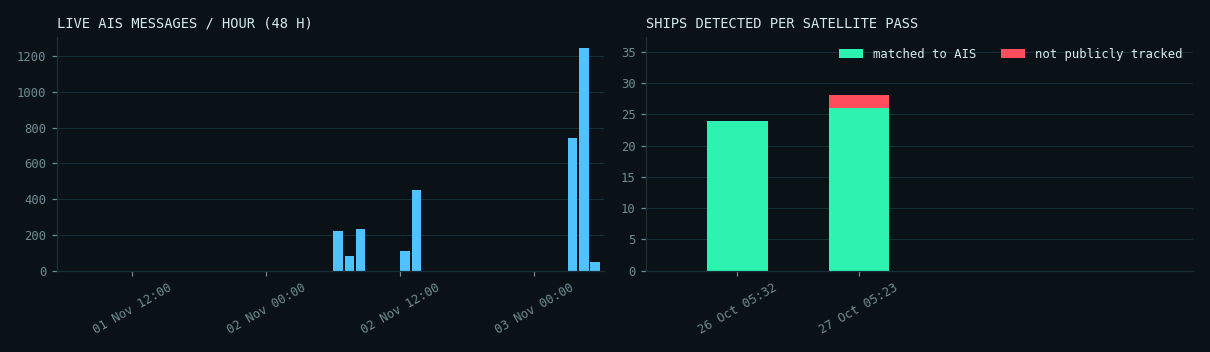
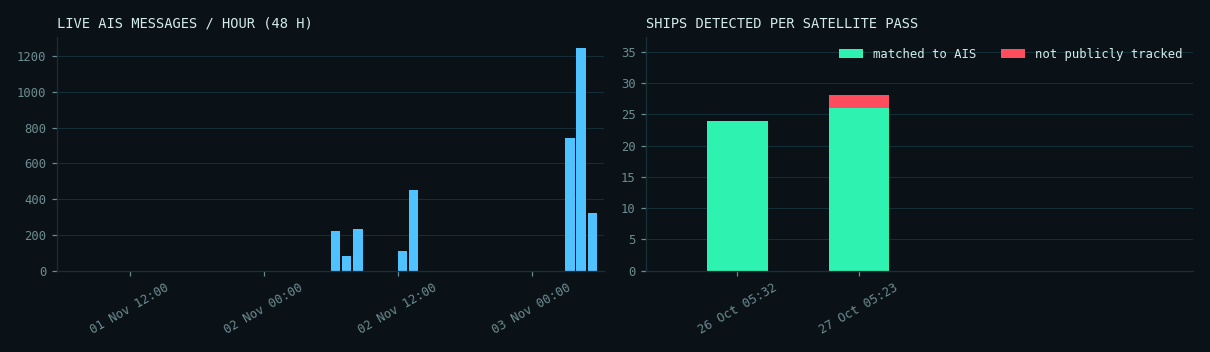
Automatic site update 2026-11-03 05:28 UTC

diff --git a/docs/denmark/index.html b/docs/denmark/index.html
@@ -81,15 +81,15 @@ footer{border-top:1px solid var(--line);padding:18px 0 28px;font:12px/1.6 var(--
 <header class="hud"><div class="wrap"><div class="hudrow">
  <a class="brand" href="../index.html"><div class="scope"><div class="sweep"></div><span class="blip" style="left:32px;top:14px"></span><span class="blip" style="left:15px;top:33px;animation-delay:1.1s"></span></div>
   <div><div class="kicker">SAR &times; AIS &middot; MARITIME AWARENESS</div><div class="title">DARK VESSEL <b>DETECTION</b></div></div></a>
- <div class="status"><span class="pill"><span class="dot off"></span>AIS FEED <strong>OFFLINE</strong></span>
+ <div class="status"><span class="pill"><span class="dot live"></span>AIS FEED <strong>LIVE</strong></span>
   <span class="pill">UTC <strong id="utc">--:--:--</strong></span>
-  <span class="pill">UPDATED <strong>03 Nov 05:14</strong></span></div>
+  <span class="pill">UPDATED <strong>03 Nov 05:29</strong></span></div>
 </div><nav class="tabs"><a class="" href="../index.html">OVERVIEW</a><a class="" href="../mumbai/index.html">MUMBAI</a><a class="on" href="../denmark/index.html">DENMARK</a><a class="" href="../nn/index.html">NEURAL NET</a><a class="" href="../demo/index.html">SIMULATION</a></nav></div></header>
 <main class="wrap"><div class="coords">SECTOR // DENMARK &middot; 55.55&ndash;55.85&deg;N &middot; 12.55&ndash;12.95&deg;E</div>
 <h1>Oresund, Copenhagen (Denmark/Sweden)</h1><p class="lede">Validation area. Sentinel-1 images it almost daily and coastal AIS coverage is dense, so the full match between radar and AIS can be shown and checked.</p>
 <div class="grid">
- <div class="panel"><div class="label">Live AIS feed</div><div class="value small"><span class='bad'>NO SIGNAL</span></div><div class="muted mono" style="font-size:12px;margin-top:6px">last message 12 min ago</div></div>
- <div class="panel"><div class="label">Ships broadcasting &middot; 30 min</div><div class="value cyan">50</div></div>
+ <div class="panel"><div class="label">Live AIS feed</div><div class="value small"><span class='ok'>RECEIVING</span></div><div class="muted mono" style="font-size:12px;margin-top:6px">last message 0 min ago</div></div>
+ <div class="panel"><div class="label">Ships broadcasting &middot; 30 min</div><div class="value cyan">57</div></div>
  <div class="panel"><div class="label">Matched &middot; latest pass</div><div class="value ">26</div></div>
  <div class="panel"><div class="label">Not tracked &middot; high confidence</div><div class="value red">0</div></div>
  <div class="panel"><div class="label">Not tracked &middot; low confidence</div><div class="value amber">2</div></div>
@@ -98,7 +98,7 @@ footer{border-top:1px solid var(--line);padding:18px 0 28px;font:12px/1.6 var(--
 <div class="legend"><span><i style="background:var(--green)"></i>matched to AIS</span><span><i style="background:var(--red)"></i>not tracked &middot; high confidence</span>
 <span><i style="background:var(--amber)"></i>not tracked &middot; low confidence</span><span><i style="background:var(--cyan)"></i>live AIS position</span></div>
 <div id="map" class="map"></div><script>
-const D=[{"lon": 12.574560869565218, "lat": 55.849597826086956, "length_m": 72.681575622935, "score": 0.6554655519501138, "shore_km": 0.14150886088341372, "status": "matched", "reason": "", "confidence": "high", "crop": "", "ship_prob": 0.9335045218467712}, {"lon": 12.704759174311928, "lat": 55.82280412844037, "length_m": 364.1071436957287, "score": 0.9904753373251979, "shore_km": 9.407061429825474, "status": "matched", "reason": "", "confidence": "high", "crop": "", "ship_prob": 0.9868959784507751}, {"lon": 12.786416463414636, "lat": 55.804669512195126, "length_m": 155.0522474362954, "score": 0.9999646038759398, "shore_km": 4.658419014138412, "status": "matched", "reason": "", "confidence": "high", "crop": "", "ship_prob": 0.9993557333946228}, {"lon": 12.88229375, "lat": 55.849146875, "length_m": 53.38783327710226, "score": 0.9899546194309776, "shore_km": 0.9067240720863213, "status": "candidate", "reason": "same_spot_in_another_pass", "confidence": "low", "crop": "crops/S1-Oresund-20261027_37.png", "ship_prob": 0.7905591130256653}, {"lon": 12.604004166666668, "lat": 55.75985, "length_m": 141.84238362073958, "score": 0.6867268898684522, "shore_km": 0.07168283192738693, "status": "matched", "reason": "", "confidence": "high", "crop": "", "ship_prob": 0.5051270127296448}, {"lon": 12.605736764705883, "lat": 55.75241323529412, "length_m": 122.11483240811877, "score": 0.9136889320646264, "shore_km": 0.6454382429486746, "status": "candidate", "reason": "same_spot_in_another_pass", "confidence": "low", "crop": "crops/S1-Oresund-20261027_77.png", "ship_prob": 0.7927113175392151}, {"lon": 12.703722571428573, "lat": 55.77917742857143, "length_m": 223.0817648726515, "score": 0.9996320924909895, "shore_km": 5.943270442766068, "status": "matched", "reason": "", "confidence": "high", "crop": "", "ship_prob": 0.9938097596168518}, {"lon": 12.902757692307693, "lat": 55.75654230769231, "length_m": 65.46226537445588, "score": 0.7187896049600956, "shore_km": 0.03584141596369347, "status": "matched", "reason": "", "confidence": "high", "crop": "", "ship_prob": 0.8691755533218384}, {"lon": 12.589922222222222, "lat": 55.725764814814816, "length_m": 146.45480845096748, "score": 0.9957587025210503, "shore_km": 0.034771280891766385, "status": "matched", "reason": "", "confidence": "high", "crop": "", "ship_prob": 0.9983701109886169}, {"lon": 12.598472047244096, "lat": 55.72077913385827, "length_m": 207.62671185403417, "score": 0.609772230082722, "shore_km": 0.14016751439395445, "status": "matched", "reason": "", "confidence": "high", "crop": "", "ship_prob": 0.6074324250221252}, {"lon": 12.589218, "lat": 55.712854, "length_m": 90.49550243938293, "score": 0.6486089656085543, "shore_km": 0.043464101114707984, "status": "matched", "reason": "", "confidence": "high", "crop": "", "ship_prob": 0.9998902082443237}, {"lon": 12.59024090909091, "lat": 55.71147090909091, "length_m": 162.54265478639104, "score": 1.0, "shore_km": 0.06146752127277559, "status": "matched", "reason": "", "confidence": "high", "crop": "", "ship_prob": 0.9999992847442627}, {"lon": 12.597835937500001, "lat": 55.701648437500005, "length_m": 133.31776511703256, "score": 0.9396217092764791, "shore_km": 0.06789309632894441, "status": "matched", "reason": "", "confidence": "high", "crop": "", "ship_prob": 0.9999727010726929}, {"lon": 12.60914, "lat": 55.69712, "length_m": 65.36743236464424, "score": 0.7827588237578229, "shore_km": 0.03134240904220623, "status": "matched", "reason": "", "confidence": "high", "crop": "", "ship_prob": 0.9867132902145386}, {"lon": 12.668552272727274, "lat": 55.72007840909091, "length_m": 207.26605497726354, "score": 0.6251792307103263, "shore_km": 0.03584141596369347, "status": "matched", "reason": "", "confidence": "high", "crop": "", "ship_prob": 0.9087074398994446}, {"lon": 12.5996, "lat": 55.68885, "length_m": 40.00855981470757, "score": 0.7664068666153926, "shore_km": 0.024587008509110237, "status": "matched", "reason": "", "confidence": "high", "crop": "", "ship_prob": 0.9766618013381958}, {"lon": 12.595819230769232, "lat": 55.67989871794872, "length_m": 127.62371588738732, "score": 0.9426870407335851, "shore_km": 0.05068741655051085, "status": "matched", "reason": "", "confidence": "high", "crop": "", "ship_prob": 0.9998841285705566}, {"lon": 12.594722222222224, "lat": 55.67918888888889, "length_m": 40.64467714079742, "score": 0.7639524834029205, "shore_km": 0.043464101114707984, "status": "matched", "reason": "", "confidence": "high", "crop": "", "ship_prob": 0.9999454021453857}, {"lon": 12.610660714285714, "lat": 55.69618571428572, "length_m": 94.51225356515693, "score": 0.9621795096736379, "shore_km": 0.03134240904220623, "status": "matched", "reason": "", "confidence": "high", "crop": "", "ship_prob": 0.999042809009552}, {"lon": 12.649045000000001, "lat": 55.692155, "length_m": 80.63364746000343, "score": 0.8515033668168979, "shore_km": 0.8863693295037299, "status": "matched", "reason": "", "confidence": "high", "crop": "", "ship_prob": 0.4333752989768982}, {"lon": 12.630751724137932, "lat": 55.685453448275865, "length_m": 125.00287123881988, "score": 0.93629426700422, "shore_km": 0.043464101114707984, "status": "matched", "reason": "", "confidence": "high", "crop": "", "ship_prob": 0.9975905418395996}, {"lon": 12.634987254901962, "lat": 55.677338235294116, "length_m": 276.5478352749318, "score": 0.7686103584091717, "shore_km": 0.024587008509110237, "status": "matched", "reason": "", "confidence": "high", "crop": "", "ship_prob": 0.9729636907577515}, {"lon": 12.68766150442478, "lat": 55.69581814159292, "length_m": 176.8074930452176, "score": 0.923202226335388, "shore_km": 2.6834920471942074, "status": "matched", "reason": "", "confidence": "high", "crop": "", "ship_prob": 0.8427141904830933}, {"lon": 12.65826847826087, "lat": 55.63610108695652, "length_m": 174.21377549767067, "score": 0.9833187000337672, "shore_km": 0.043464101114707984, "status": "matched", "reason": "", "confidence": "high", "crop": "", "ship_prob": 0.9998973608016968}, {"lon": 12.680683333333334, "lat": 55.610910000000004, "length_m": 74.22790892756812, "score": 0.6314184609397504, "shore_km": 0.03134240904220623, "status": "matched", "reason": "", "confidence": "high", "crop": "", "ship_prob": 0.44054293632507324}, {"lon": 12.868352132196163, "lat": 55.60022420042644, "length_m": 299.20726350177785, "score": 0.9999960398718075, "shore_km": 2.8169298200726325, "status": "matched", "reason": "", "confidence": "high", "crop": "", "ship_prob": 0.9967911839485168}, {"lon": 12.680875, "lat": 55.59323, "length_m": 95.51211981545671, "score": 0.7585723176580392, "shore_km": 0.03584141596369347, "status": "matched", "reason": "", "confidence": "high", "crop": "", "ship_prob": 0.797581672668457}, {"lon": 12.706387741935485, "lat": 55.56306903225806, "length_m": 301.4640427512081, "score": 0.9999731380181186, "shore_km": 3.1965238712919084, "status": "matched", "reason": "", "confidence": "high", "crop": "", "ship_prob": 0.9941650032997131}],LIVE=[{"lon": 12.997341666666667, "lat": 55.61367166666666, "sog": 0.0, "age": 29}, {"lon": 12.676121666666667, "lat": 55.59363666666666, "sog": 0.0, "age": 28}, {"lon": 12.592965, "lat": 55.67929, "sog": 0.0, "age": 27}, {"lon": 12.90351, "lat": 55.75664833333334, "sog": 0.1, "age": 26}, {"lon": 12.599056666666666, "lat": 55.689035, "sog": 0.0, "age": 23}, {"lon": 12.680413333333332, "lat": 55.611255, "sog": 0.0, "age": 23}, {"lon": 12.802448333333333, "lat": 55.867525, "sog": 10.2, "age": 22}, {"lon": 12.827605, "lat": 55.86272666666667, "sog": 0.0, "age": 21}, {"lon": 12.835305, "lat": 55.85993, "sog": 0.0, "age": 21}, {"lon": 12.676878333333333, "lat": 55.593984999999996, "sog": 0.0, "age": 21}, {"lon": 12.634868333333333, "lat": 55.687153333333335, "sog": 0.0, "age": 20}, {"lon": 12.8337, "lat": 55.85574999999999, "sog": 0.0, "age": 20}, {"lon": 13.05849, "lat": 55.67567833333333, "sog": 0.0, "age": 20}, {"lon": 12.744439999999999, "lat": 55.993293333333334, "sog": 0.0, "age": 19}, {"lon": 13.033395, "lat": 55.62437833333333, "sog": 0.0, "age": 19}, {"lon": 12.6307, "lat": 55.689859999999996, "sog": 0.0, "age": 19}, {"lon": 12.747538333333333, "lat": 55.52214166666667, "sog": 12.8, "age": 17}, {"lon": 12.488236666666667, "lat": 55.51761666666666, "sog": 0.0, "age": 17}, {"lon": 12.603558333333332, "lat": 55.76061, "sog": 0.0, "age": 16}, {"lon": 12.83193, "lat": 55.85404166666667, "sog": 0.0, "age": 16}, {"lon": 12.593518333333332, "lat": 55.679195, "sog": 0.0, "age": 16}, {"lon": 12.647473333333332, "lat": 55.6769, "sog": 0.0, "age": 16}, {"lon": 12.729016666666666, "lat": 55.97929833333333, "sog": 0.1, "age": 16}, {"lon": 12.872346666666665, "lat": 55.58277666666667, "sog": 17.0, "age": 16}, {"lon": 12.572725, "lat": 55.85084333333334, "sog": 0.0, "age": 16}, {"lon": 12.635391666666667, "lat": 55.67643833333333, "sog": 0.0, "age": 16}, {"lon": 12.824866666666667, "lat": 55.86593333333334, "sog": 0.0, "age": 16}, {"lon": 12.665891666666665, "lat": 55.71982, "sog": 0.1, "age": 15}, {"lon": 12.833266666666667, "lat": 55.855850000000004, "sog": 0.0, "age": 15}, {"lon": 12.646803333333335, "lat": 55.902251666666665, "sog": 11.0, "age": 15}, {"lon": 12.765588333333334, "lat": 55.883743333333335, "sog": 1.0, "age": 15}, {"lon": 12.672653333333333, "lat": 55.45431166666666, "sog": 12.4, "age": 14}, {"lon": 12.744446666666667, "lat": 55.993219999999994, "sog": 0.0, "age": 13}, {"lon": 12.729863333333332, "lat": 55.75190666666666, "sog": 0.1, "age": 13}, {"lon": 12.697265, "lat": 55.571434999999994, "sog": 20.9, "age": 13}, {"lon": 12.832903333333332, "lat": 55.85850666666667, "sog": 0.0, "age": 13}, {"lon": 12.701948333333332, "lat": 55.523215, "sog": 10.2, "age": 13}, {"lon": 12.482448333333334, "lat": 55.60140666666667, "sog": 0.0, "age": 13}, {"lon": 12.888868333333333, "lat": 55.61513166666667, "sog": 11.6, "age": 13}, {"lon": 12.646905, "lat": 55.67738166666666, "sog": 0.0, "age": 13}, {"lon": 12.680481666666667, "lat": 55.72191333333333, "sog": 8.9, "age": 12}, {"lon": 13.033791666666668, "lat": 55.624585, "sog": 0.0, "age": 12}, {"lon": 12.501653333333334, "lat": 55.61078333333333, "sog": 0.0, "age": 12}, {"lon": 12.728171666666666, "lat": 55.94376666666667, "sog": 9.0, "age": 12}, {"lon": 12.664021666666667, "lat": 55.72002333333333, "sog": 0.0, "age": 12}, {"lon": 12.679028333333333, "lat": 55.469375, "sog": 12.0, "age": 12}, {"lon": 12.715411666666666, "lat": 55.95131833333333, "sog": 9.0, "age": 12}, {"lon": 12.625316666666667, "lat": 55.691075, "sog": 0.0, "age": 12}, {"lon": 12.82288, "lat": 55.86647333333334, "sog": 0.0, "age": 12}, {"lon": 12.680051666666666, "lat": 55.59287, "sog": 0.0, "age": 11}],B=[[55.55,12.55],[55.85,12.95]];const m=L.map('map',{zoomSnap:.25}).fitBounds(B);
+const D=[{"lon": 12.574560869565218, "lat": 55.849597826086956, "length_m": 72.681575622935, "score": 0.6554655519501138, "shore_km": 0.14150886088341372, "status": "matched", "reason": "", "confidence": "high", "crop": "", "ship_prob": 0.9335045218467712}, {"lon": 12.704759174311928, "lat": 55.82280412844037, "length_m": 364.1071436957287, "score": 0.9904753373251979, "shore_km": 9.407061429825474, "status": "matched", "reason": "", "confidence": "high", "crop": "", "ship_prob": 0.9868959784507751}, {"lon": 12.786416463414636, "lat": 55.804669512195126, "length_m": 155.0522474362954, "score": 0.9999646038759398, "shore_km": 4.658419014138412, "status": "matched", "reason": "", "confidence": "high", "crop": "", "ship_prob": 0.9993557333946228}, {"lon": 12.88229375, "lat": 55.849146875, "length_m": 53.38783327710226, "score": 0.9899546194309776, "shore_km": 0.9067240720863213, "status": "candidate", "reason": "same_spot_in_another_pass", "confidence": "low", "crop": "crops/S1-Oresund-20261027_37.png", "ship_prob": 0.7905591130256653}, {"lon": 12.604004166666668, "lat": 55.75985, "length_m": 141.84238362073958, "score": 0.6867268898684522, "shore_km": 0.07168283192738693, "status": "matched", "reason": "", "confidence": "high", "crop": "", "ship_prob": 0.5051270127296448}, {"lon": 12.605736764705883, "lat": 55.75241323529412, "length_m": 122.11483240811877, "score": 0.9136889320646264, "shore_km": 0.6454382429486746, "status": "candidate", "reason": "same_spot_in_another_pass", "confidence": "low", "crop": "crops/S1-Oresund-20261027_77.png", "ship_prob": 0.7927113175392151}, {"lon": 12.703722571428573, "lat": 55.77917742857143, "length_m": 223.0817648726515, "score": 0.9996320924909895, "shore_km": 5.943270442766068, "status": "matched", "reason": "", "confidence": "high", "crop": "", "ship_prob": 0.9938097596168518}, {"lon": 12.902757692307693, "lat": 55.75654230769231, "length_m": 65.46226537445588, "score": 0.7187896049600956, "shore_km": 0.03584141596369347, "status": "matched", "reason": "", "confidence": "high", "crop": "", "ship_prob": 0.8691755533218384}, {"lon": 12.589922222222222, "lat": 55.725764814814816, "length_m": 146.45480845096748, "score": 0.9957587025210503, "shore_km": 0.034771280891766385, "status": "matched", "reason": "", "confidence": "high", "crop": "", "ship_prob": 0.9983701109886169}, {"lon": 12.598472047244096, "lat": 55.72077913385827, "length_m": 207.62671185403417, "score": 0.609772230082722, "shore_km": 0.14016751439395445, "status": "matched", "reason": "", "confidence": "high", "crop": "", "ship_prob": 0.6074324250221252}, {"lon": 12.589218, "lat": 55.712854, "length_m": 90.49550243938293, "score": 0.6486089656085543, "shore_km": 0.043464101114707984, "status": "matched", "reason": "", "confidence": "high", "crop": "", "ship_prob": 0.9998902082443237}, {"lon": 12.59024090909091, "lat": 55.71147090909091, "length_m": 162.54265478639104, "score": 1.0, "shore_km": 0.06146752127277559, "status": "matched", "reason": "", "confidence": "high", "crop": "", "ship_prob": 0.9999992847442627}, {"lon": 12.597835937500001, "lat": 55.701648437500005, "length_m": 133.31776511703256, "score": 0.9396217092764791, "shore_km": 0.06789309632894441, "status": "matched", "reason": "", "confidence": "high", "crop": "", "ship_prob": 0.9999727010726929}, {"lon": 12.60914, "lat": 55.69712, "length_m": 65.36743236464424, "score": 0.7827588237578229, "shore_km": 0.03134240904220623, "status": "matched", "reason": "", "confidence": "high", "crop": "", "ship_prob": 0.9867132902145386}, {"lon": 12.668552272727274, "lat": 55.72007840909091, "length_m": 207.26605497726354, "score": 0.6251792307103263, "shore_km": 0.03584141596369347, "status": "matched", "reason": "", "confidence": "high", "crop": "", "ship_prob": 0.9087074398994446}, {"lon": 12.5996, "lat": 55.68885, "length_m": 40.00855981470757, "score": 0.7664068666153926, "shore_km": 0.024587008509110237, "status": "matched", "reason": "", "confidence": "high", "crop": "", "ship_prob": 0.9766618013381958}, {"lon": 12.595819230769232, "lat": 55.67989871794872, "length_m": 127.62371588738732, "score": 0.9426870407335851, "shore_km": 0.05068741655051085, "status": "matched", "reason": "", "confidence": "high", "crop": "", "ship_prob": 0.9998841285705566}, {"lon": 12.594722222222224, "lat": 55.67918888888889, "length_m": 40.64467714079742, "score": 0.7639524834029205, "shore_km": 0.043464101114707984, "status": "matched", "reason": "", "confidence": "high", "crop": "", "ship_prob": 0.9999454021453857}, {"lon": 12.610660714285714, "lat": 55.69618571428572, "length_m": 94.51225356515693, "score": 0.9621795096736379, "shore_km": 0.03134240904220623, "status": "matched", "reason": "", "confidence": "high", "crop": "", "ship_prob": 0.999042809009552}, {"lon": 12.649045000000001, "lat": 55.692155, "length_m": 80.63364746000343, "score": 0.8515033668168979, "shore_km": 0.8863693295037299, "status": "matched", "reason": "", "confidence": "high", "crop": "", "ship_prob": 0.4333752989768982}, {"lon": 12.630751724137932, "lat": 55.685453448275865, "length_m": 125.00287123881988, "score": 0.93629426700422, "shore_km": 0.043464101114707984, "status": "matched", "reason": "", "confidence": "high", "crop": "", "ship_prob": 0.9975905418395996}, {"lon": 12.634987254901962, "lat": 55.677338235294116, "length_m": 276.5478352749318, "score": 0.7686103584091717, "shore_km": 0.024587008509110237, "status": "matched", "reason": "", "confidence": "high", "crop": "", "ship_prob": 0.9729636907577515}, {"lon": 12.68766150442478, "lat": 55.69581814159292, "length_m": 176.8074930452176, "score": 0.923202226335388, "shore_km": 2.6834920471942074, "status": "matched", "reason": "", "confidence": "high", "crop": "", "ship_prob": 0.8427141904830933}, {"lon": 12.65826847826087, "lat": 55.63610108695652, "length_m": 174.21377549767067, "score": 0.9833187000337672, "shore_km": 0.043464101114707984, "status": "matched", "reason": "", "confidence": "high", "crop": "", "ship_prob": 0.9998973608016968}, {"lon": 12.680683333333334, "lat": 55.610910000000004, "length_m": 74.22790892756812, "score": 0.6314184609397504, "shore_km": 0.03134240904220623, "status": "matched", "reason": "", "confidence": "high", "crop": "", "ship_prob": 0.44054293632507324}, {"lon": 12.868352132196163, "lat": 55.60022420042644, "length_m": 299.20726350177785, "score": 0.9999960398718075, "shore_km": 2.8169298200726325, "status": "matched", "reason": "", "confidence": "high", "crop": "", "ship_prob": 0.9967911839485168}, {"lon": 12.680875, "lat": 55.59323, "length_m": 95.51211981545671, "score": 0.7585723176580392, "shore_km": 0.03584141596369347, "status": "matched", "reason": "", "confidence": "high", "crop": "", "ship_prob": 0.797581672668457}, {"lon": 12.706387741935485, "lat": 55.56306903225806, "length_m": 301.4640427512081, "score": 0.9999731380181186, "shore_km": 3.1965238712919084, "status": "matched", "reason": "", "confidence": "high", "crop": "", "ship_prob": 0.9941650032997131}],LIVE=[{"lon": 12.833266666666667, "lat": 55.855850000000004, "sog": 0.0, "age": 29}, {"lon": 12.672653333333333, "lat": 55.45431166666666, "sog": 12.4, "age": 28}, {"lon": 12.729863333333332, "lat": 55.75190666666666, "sog": 0.1, "age": 28}, {"lon": 12.832903333333332, "lat": 55.85850666666667, "sog": 0.0, "age": 28}, {"lon": 12.646905, "lat": 55.67738166666666, "sog": 0.0, "age": 27}, {"lon": 12.630711666666667, "lat": 55.68986833333334, "sog": 0.0, "age": 12}, {"lon": 12.635423333333334, "lat": 55.67642166666667, "sog": 0.0, "age": 12}, {"lon": 12.656138333333333, "lat": 55.419866666666664, "sog": 12.2, "age": 11}, {"lon": 12.835305, "lat": 55.85993, "sog": 0.0, "age": 11}, {"lon": 12.676913333333333, "lat": 55.593935, "sog": 0.0, "age": 10}, {"lon": 12.764103333333333, "lat": 55.884456666666665, "sog": 0.2, "age": 9}, {"lon": 12.593458333333333, "lat": 55.67917, "sog": 0.0, "age": 7}, {"lon": 12.631391666666667, "lat": 55.97341666666667, "sog": 7.8, "age": 6}, {"lon": 12.688268333333333, "lat": 55.99905666666667, "sog": 8.8, "age": 6}, {"lon": 12.62531, "lat": 55.69107666666666, "sog": 0.0, "age": 6}, {"lon": 12.63411, "lat": 55.675765, "sog": 0.0, "age": 6}, {"lon": 12.696555, "lat": 55.992713333333334, "sog": 8.8, "age": 5}, {"lon": 12.830413333333333, "lat": 55.85599, "sog": 0.0, "age": 5}, {"lon": 12.74443, "lat": 55.99323166666667, "sog": 0.0, "age": 5}, {"lon": 12.823659999999999, "lat": 55.866414999999996, "sog": 0.1, "age": 5}, {"lon": 12.647476666666668, "lat": 55.676894999999995, "sog": 0.0, "age": 5}, {"lon": 12.480863333333334, "lat": 55.60675166666667, "sog": 0.0, "age": 5}, {"lon": 12.603483333333333, "lat": 55.760506666666664, "sog": 0.0, "age": 5}, {"lon": 12.680456666666666, "lat": 55.61124333333333, "sog": 0.0, "age": 4}, {"lon": 12.674018333333333, "lat": 55.450158333333334, "sog": 12.2, "age": 4}, {"lon": 12.744436666666667, "lat": 55.99331166666666, "sog": 0.0, "age": 4}, {"lon": 12.860518333333333, "lat": 55.597163333333334, "sog": 13.3, "age": 4}, {"lon": 12.603548333333332, "lat": 55.760575, "sog": 0.0, "age": 4}, {"lon": 12.903500000000001, "lat": 55.75664, "sog": 0.1, "age": 4}, {"lon": 12.762373333333333, "lat": 55.88745333333333, "sog": 8.9, "age": 4}, {"lon": 12.824866666666667, "lat": 55.86595, "sog": 0.0, "age": 3}, {"lon": 12.592975, "lat": 55.67927833333333, "sog": 0.0, "age": 3}, {"lon": 13.035146666666666, "lat": 55.62470166666667, "sog": 0.1, "age": 3}, {"lon": 12.984396666666667, "lat": 55.624871666666664, "sog": 1.5, "age": 2}, {"lon": 12.66586, "lat": 55.71979666666667, "sog": 0.0, "age": 2}, {"lon": 12.999793333333335, "lat": 55.618365000000004, "sog": 0.0, "age": 2}, {"lon": 12.501098333333335, "lat": 55.61131, "sog": 0.1, "age": 2}, {"lon": 12.614731666666668, "lat": 55.989918333333335, "sog": 6.8, "age": 2}, {"lon": 12.997238333333334, "lat": 55.613775000000004, "sog": 0.0, "age": 2}, {"lon": 12.892203333333333, "lat": 55.52374833333333, "sog": 0.0, "age": 2}, {"lon": 12.997348333333333, "lat": 55.613665, "sog": 0.0, "age": 1}, {"lon": 12.82817, "lat": 55.86163166666667, "sog": 0.0, "age": 1}, {"lon": 12.599046666666668, "lat": 55.689031666666665, "sog": 0.1, "age": 1}, {"lon": 12.685094999999999, "lat": 55.658135, "sog": 9.4, "age": 1}, {"lon": 12.680164999999999, "lat": 55.592830000000006, "sog": 0.0, "age": 1}, {"lon": 12.488395, "lat": 55.517428333333335, "sog": 0.1, "age": 1}, {"lon": 12.833716666666668, "lat": 55.85573333333333, "sog": 0.0, "age": 1}, {"lon": 12.572748333333333, "lat": 55.85085, "sog": 0.0, "age": 1}, {"lon": 12.482448333333334, "lat": 55.60140666666667, "sog": 0.0, "age": 1}, {"lon": 13.05851, "lat": 55.675665, "sog": 0.0, "age": 1}, {"lon": 13.03334, "lat": 55.624424999999995, "sog": 0.0, "age": 0}, {"lon": 12.729278333333333, "lat": 55.979565, "sog": 0.2, "age": 0}, {"lon": 13.033798333333333, "lat": 55.62456666666667, "sog": 0.0, "age": 0}, {"lon": 12.667148333333333, "lat": 55.71887, "sog": 0.5, "age": 0}, {"lon": 12.680083333333332, "lat": 55.592888333333335, "sog": 0.0, "age": 0}, {"lon": 13.023948333333333, "lat": 55.623325, "sog": 2.5, "age": 0}, {"lon": 12.70107, "lat": 55.81778166666666, "sog": 11.1, "age": 0}],B=[[55.55,12.55],[55.85,12.95]];const m=L.map('map',{zoomSnap:.25}).fitBounds(B);
 // re-fit once layout has settled: if the container had no size when the map was created, Leaflet falls back to zoom 0
 const refit=()=>{m.invalidateSize();m.fitBounds(B);};setTimeout(refit,0);window.addEventListener('load',refit);
 // standard OSM tiles (no API key), turned into a dark "radar console" basemap with a CSS filter (.radar-tiles)
@@ -116,8 +116,8 @@ L.control.layers(null,{'Radar detections (selected pass)':det,'Live AIS, last 30
 </script>
 <h2>Pass log</h2><div class='tablewrap'><table><thead><tr><th>pass (UTC)</th><th>ships</th><th>matched</th><th>not tracked</th><th>low conf.</th><th>match rate</th><th>AIS msgs</th></tr></thead><tbody><tr><td>2026-10-27 05:23 UTC</td><td>28</td><td class='ok'>26</td><td class='bad'>0</td><td style='color:var(--amber)'>2</td><td>93%</td><td>10687</td></tr><tr><td>2026-10-26 05:32 UTC</td><td>24</td><td class='ok'>24</td><td class='bad'>0</td><td style='color:var(--amber)'>0</td><td>100%</td><td>11603</td></tr></tbody></table></div>
 <h2>Telemetry</h2><img class="chart" src="charts.png" alt="AIS messages per hour and ships detected per pass">
-<p class="muted mono" style="font-size:12px">Feed gaps in the last 24 h: 7 (1140 min) &middot; AIS messages in the last hour: 1000</p>
-<h2>Recent Sentinel-1 acquisitions</h2><ul class="acq"><li>catalogue unavailable</li></ul></main>
+<p class="muted mono" style="font-size:12px">Feed gaps in the last 24 h: 9 (1166 min) &middot; AIS messages in the last hour: 970</p>
+<h2>Recent Sentinel-1 acquisitions</h2><ul class="acq"><li>2026-11-02 05:23 UTC</li><li>2026-11-01 16:44 UTC</li><li>2026-11-01 05:31 UTC</li><li>2026-10-31 16:52 UTC</li><li>2026-10-30 17:00 UTC</li><li>2026-10-27 05:23 UTC</li><li>2026-10-26 05:32 UTC</li><li>2026-10-25 16:52 UTC</li></ul></main>
 <footer><div class="wrap">Data: Copernicus Sentinel-1 (ESA) &middot; AIS via aisstream.io and the Danish Maritime Authority &middot;
 coastlines, structures and basemap &copy; OpenStreetMap contributors. Flags are candidates for review, not accusations.</div></footer>
 <script>(function(){const e=document.getElementById('utc');const t=()=>e.textContent=new Date().toISOString().slice(11,19);t();setInterval(t,1000);})();</script>

diff --git a/docs/index.html b/docs/index.html
@@ -81,9 +81,9 @@ footer{border-top:1px solid var(--line);padding:18px 0 28px;font:12px/1.6 var(--
 <header class="hud"><div class="wrap"><div class="hudrow">
  <a class="brand" href="index.html"><div class="scope"><div class="sweep"></div><span class="blip" style="left:32px;top:14px"></span><span class="blip" style="left:15px;top:33px;animation-delay:1.1s"></span></div>
   <div><div class="kicker">SAR &times; AIS &middot; MARITIME AWARENESS</div><div class="title">DARK VESSEL <b>DETECTION</b></div></div></a>
- <div class="status"><span class="pill"><span class="dot off"></span>AIS FEED <strong>OFFLINE</strong></span>
+ <div class="status"><span class="pill"><span class="dot live"></span>AIS FEED <strong>LIVE</strong></span>
   <span class="pill">UTC <strong id="utc">--:--:--</strong></span>
-  <span class="pill">UPDATED <strong>03 Nov 05:14</strong></span></div>
+  <span class="pill">UPDATED <strong>03 Nov 05:29</strong></span></div>
 </div><nav class="tabs"><a class="on" href="index.html">OVERVIEW</a><a class="" href="mumbai/index.html">MUMBAI</a><a class="" href="denmark/index.html">DENMARK</a><a class="" href="nn/index.html">NEURAL NET</a><a class="" href="demo/index.html">SIMULATION</a></nav></div></header>
 <main class="wrap"><div class="coords">SYSTEM OVERVIEW</div>
 <h1>Ships the radar sees that nobody is tracking</h1>
@@ -91,7 +91,7 @@ footer{border-top:1px solid var(--line);padding:18px 0 28px;font:12px/1.6 var(--
 This system compares the two for each processed Sentinel-1 pass and lists the ships that appear on radar with no matching AIS signal.</p>
 <div class="grid" style="margin-top:18px"><div class="panel"><div class="label">Satellite passes processed</div><div class="value ">3</div></div><div class="panel"><div class="label">Ships matched to AIS</div><div class="value ">50</div></div>
 <div class="panel"><div class="label">Not tracked &middot; high confidence</div><div class="value red">0</div></div><div class="panel"><div class="label">Not tracked &middot; low confidence</div><div class="value amber">117</div></div>
-<div class="panel"><div class="label">Broadcasting now &middot; 30 min</div><div class="value cyan">50</div></div></div>
+<div class="panel"><div class="label">Broadcasting now &middot; 30 min</div><div class="value cyan">57</div></div></div>
 <p class="muted" style="font-size:13px;margin-top:10px"><b>High confidence</b> = no AIS ship nearby although the AIS feed was healthy and the
 target is within receiver range, and it is not at a spot where something was also seen on another pass. Everything else is
 <b>low confidence</b>: the data cannot support calling it dark (for example Mumbai, where no AIS was available for the pass at all).</p>
@@ -114,14 +114,14 @@ same pipeline using historical AIS. Next expected passes: Mumbai about 5 Nov 01:
 <div class="kv"><span>ships matched to AIS</span><span class="ok">50</span></div>
 <div class="kv"><span>not tracked, high confidence</span><span class="bad">0</span></div>
 <div class="kv"><span>not tracked, low confidence</span><span style="color:var(--amber)">2</span></div>
-<div class="kv"><span>broadcasting now (30 min)</span><span style="color:var(--cyan)">50</span></div>
+<div class="kv"><span>broadcasting now (30 min)</span><span style="color:var(--cyan)">57</span></div>
 <div class="go">OPEN SECTOR &rarr;</div></a></div>
 <h2>Read before trusting a flag</h2>
 <div class="alert"><b>"Not publicly tracked" is not "switched off".</b> Small boats often carry no public AIS, free AIS comes from coastal
 receivers with limited range, and ships under about 40 m are not reliably visible to the satellite. Low-confidence flags are the ones the
 data cannot support: beyond receiver range, during an AIS feed gap, or with no AIS recorded.</div>
 <h2>Automatic runs</h2><p class="muted mono" style="font-size:12.5px;margin-top:-4px">Each row is one automatic website rebuild, with the live AIS counts at that moment. Newest first.</p>
-<div class="tablewrap"><table><thead><tr><th>run (UTC)</th><th>mumbai live</th><th>mumbai msg/h</th><th>denmark live</th><th>denmark msg/h</th></tr></thead><tbody><tr><td>2026-11-03 05:14</td><td>0</td><td>0</td><td>50</td><td>1000</td></tr><tr><td>2026-11-03 05:13</td><td>0</td><td>0</td><td>50</td><td>1026</td></tr><tr><td>2026-11-03 04:59</td><td>0</td><td>0</td><td>58</td><td>1250</td></tr><tr><td>2026-11-03 04:58</td><td>0</td><td>0</td><td>59</td><td>1250</td></tr><tr><td>2026-11-03 04:44</td><td>0</td><td>0</td><td>60</td><td>1240</td></tr><tr><td>2026-11-03 04:42</td><td>0</td><td>0</td><td>59</td><td>1248</td></tr><tr><td>2026-11-03 04:28</td><td>0</td><td>0</td><td>58</td><td>1242</td></tr><tr><td>2026-11-03 04:27</td><td>0</td><td>0</td><td>57</td><td>1240</td></tr><tr><td>2026-11-03 04:12</td><td>0</td><td>0</td><td>56</td><td>994</td></tr><tr><td>2026-11-03 04:11</td><td>0</td><td>0</td><td>56</td><td>967</td></tr><tr><td>2026-11-03 03:57</td><td>0</td><td>0</td><td>59</td><td>666</td></tr><tr><td>2026-11-03 03:55</td><td>0</td><td>0</td><td>59</td><td>644</td></tr><tr><td>2026-11-03 03:41</td><td>0</td><td>0</td><td>58</td><td>348</td></tr><tr><td>2026-11-03 03:40</td><td>0</td><td>0</td><td>58</td><td>330</td></tr><tr><td>2026-11-03 03:26</td><td>0</td><td>0</td><td>31</td><td>65</td></tr><tr><td>2026-11-03 03:24</td><td>0</td><td>0</td><td>27</td><td>52</td></tr><tr><td>2026-11-02 13:37</td><td>0</td><td>0</td><td>68</td><td>479</td></tr><tr><td>2026-11-02 13:34</td><td>0</td><td>0</td><td>68</td><td>448</td></tr><tr><td>2026-11-02 13:21</td><td>0</td><td>0</td><td>63</td><td>313</td></tr><tr><td>2026-11-02 13:05</td><td>0</td><td>0</td><td>62</td><td>160</td></tr><tr><td>2026-11-02 12:58</td><td>0</td><td>0</td><td>50</td><td>96</td></tr><tr><td>2026-11-02 12:42</td><td>0</td><td>0</td><td>9</td><td>9</td></tr><tr><td>2026-11-02 08:09</td><td>0</td><td>0</td><td>62</td><td>171</td></tr><tr><td>2026-11-02 07:53</td><td>0</td><td>0</td><td>19</td><td>49</td></tr></tbody></table></div></main>
+<div class="tablewrap"><table><thead><tr><th>run (UTC)</th><th>mumbai live</th><th>mumbai msg/h</th><th>denmark live</th><th>denmark msg/h</th></tr></thead><tbody><tr><td>2026-11-03 05:29</td><td>0</td><td>0</td><td>57</td><td>970</td></tr><tr><td>2026-11-03 05:14</td><td>0</td><td>0</td><td>50</td><td>1000</td></tr><tr><td>2026-11-03 05:13</td><td>0</td><td>0</td><td>50</td><td>1026</td></tr><tr><td>2026-11-03 04:59</td><td>0</td><td>0</td><td>58</td><td>1250</td></tr><tr><td>2026-11-03 04:58</td><td>0</td><td>0</td><td>59</td><td>1250</td></tr><tr><td>2026-11-03 04:44</td><td>0</td><td>0</td><td>60</td><td>1240</td></tr><tr><td>2026-11-03 04:42</td><td>0</td><td>0</td><td>59</td><td>1248</td></tr><tr><td>2026-11-03 04:28</td><td>0</td><td>0</td><td>58</td><td>1242</td></tr><tr><td>2026-11-03 04:27</td><td>0</td><td>0</td><td>57</td><td>1240</td></tr><tr><td>2026-11-03 04:12</td><td>0</td><td>0</td><td>56</td><td>994</td></tr><tr><td>2026-11-03 04:11</td><td>0</td><td>0</td><td>56</td><td>967</td></tr><tr><td>2026-11-03 03:57</td><td>0</td><td>0</td><td>59</td><td>666</td></tr><tr><td>2026-11-03 03:55</td><td>0</td><td>0</td><td>59</td><td>644</td></tr><tr><td>2026-11-03 03:41</td><td>0</td><td>0</td><td>58</td><td>348</td></tr><tr><td>2026-11-03 03:40</td><td>0</td><td>0</td><td>58</td><td>330</td></tr><tr><td>2026-11-03 03:26</td><td>0</td><td>0</td><td>31</td><td>65</td></tr><tr><td>2026-11-03 03:24</td><td>0</td><td>0</td><td>27</td><td>52</td></tr><tr><td>2026-11-02 13:37</td><td>0</td><td>0</td><td>68</td><td>479</td></tr><tr><td>2026-11-02 13:34</td><td>0</td><td>0</td><td>68</td><td>448</td></tr><tr><td>2026-11-02 13:21</td><td>0</td><td>0</td><td>63</td><td>313</td></tr><tr><td>2026-11-02 13:05</td><td>0</td><td>0</td><td>62</td><td>160</td></tr><tr><td>2026-11-02 12:58</td><td>0</td><td>0</td><td>50</td><td>96</td></tr><tr><td>2026-11-02 12:42</td><td>0</td><td>0</td><td>9</td><td>9</td></tr><tr><td>2026-11-02 08:09</td><td>0</td><td>0</td><td>62</td><td>171</td></tr></tbody></table></div></main>
 <footer><div class="wrap">Data: Copernicus Sentinel-1 (ESA) &middot; AIS via aisstream.io and the Danish Maritime Authority &middot;
 coastlines, structures and basemap &copy; OpenStreetMap contributors. Flags are candidates for review, not accusations.</div></footer>
 <script>(function(){const e=document.getElementById('utc');const t=()=>e.textContent=new Date().toISOString().slice(11,19);t();setInterval(t,1000);})();</script>

diff --git a/docs/mumbai/index.html b/docs/mumbai/index.html
@@ -81,9 +81,9 @@ footer{border-top:1px solid var(--line);padding:18px 0 28px;font:12px/1.6 var(--
 <header class="hud"><div class="wrap"><div class="hudrow">
  <a class="brand" href="../index.html"><div class="scope"><div class="sweep"></div><span class="blip" style="left:32px;top:14px"></span><span class="blip" style="left:15px;top:33px;animation-delay:1.1s"></span></div>
   <div><div class="kicker">SAR &times; AIS &middot; MARITIME AWARENESS</div><div class="title">DARK VESSEL <b>DETECTION</b></div></div></a>
- <div class="status"><span class="pill"><span class="dot off"></span>AIS FEED <strong>OFFLINE</strong></span>
+ <div class="status"><span class="pill"><span class="dot live"></span>AIS FEED <strong>LIVE</strong></span>
   <span class="pill">UTC <strong id="utc">--:--:--</strong></span>
-  <span class="pill">UPDATED <strong>03 Nov 05:14</strong></span></div>
+  <span class="pill">UPDATED <strong>03 Nov 05:28</strong></span></div>
 </div><nav class="tabs"><a class="" href="../index.html">OVERVIEW</a><a class="on" href="../mumbai/index.html">MUMBAI</a><a class="" href="../denmark/index.html">DENMARK</a><a class="" href="../nn/index.html">NEURAL NET</a><a class="" href="../demo/index.html">SIMULATION</a></nav></div></header>
 <main class="wrap"><div class="coords">SECTOR // MUMBAI &middot; 18.80&ndash;19.10&deg;N &middot; 72.55&ndash;72.95&deg;E</div>
 <h1>Mumbai coast and harbour, India</h1><p class="lede">The project's target area. Sentinel-1 images it about once every 12 days, and free AIS comes only from coastal receivers, so many unmatched ships here are simply out of receiver range.</p>
@@ -116,8 +116,8 @@ L.control.layers(null,{'Radar detections (selected pass)':det,'Live AIS, last 30
 </script>
 <h2>Pass log</h2><div class='tablewrap'><table><thead><tr><th>pass (UTC)</th><th>ships</th><th>matched</th><th>not tracked</th><th>low conf.</th><th>match rate</th><th>AIS msgs</th></tr></thead><tbody><tr><td>2026-10-24 01:02 UTC</td><td>115</td><td class='ok'>0</td><td class='bad'>0</td><td style='color:var(--amber)'>115</td><td>0%</td><td>0</td></tr></tbody></table></div>
 <h2>Telemetry</h2><img class="chart" src="charts.png" alt="AIS messages per hour and ships detected per pass">
-<p class="muted mono" style="font-size:12px">Feed gaps in the last 24 h: 7 (1140 min) &middot; AIS messages in the last hour: 0</p>
-<h2>Recent Sentinel-1 acquisitions</h2><ul class="acq"><li>catalogue unavailable</li></ul></main>
+<p class="muted mono" style="font-size:12px">Feed gaps in the last 24 h: 9 (1166 min) &middot; AIS messages in the last hour: 0</p>
+<h2>Recent Sentinel-1 acquisitions</h2><ul class="acq"><li>2026-10-24 01:02 UTC</li></ul></main>
 <footer><div class="wrap">Data: Copernicus Sentinel-1 (ESA) &middot; AIS via aisstream.io and the Danish Maritime Authority &middot;
 coastlines, structures and basemap &copy; OpenStreetMap contributors. Flags are candidates for review, not accusations.</div></footer>
 <script>(function(){const e=document.getElementById('utc');const t=()=>e.textContent=new Date().toISOString().slice(11,19);t();setInterval(t,1000);})();</script>

diff --git a/docs/demo/index.html b/docs/demo/index.html
@@ -81,9 +81,9 @@ footer{border-top:1px solid var(--line);padding:18px 0 28px;font:12px/1.6 var(--
 <header class="hud"><div class="wrap"><div class="hudrow">
  <a class="brand" href="../index.html"><div class="scope"><div class="sweep"></div><span class="blip" style="left:32px;top:14px"></span><span class="blip" style="left:15px;top:33px;animation-delay:1.1s"></span></div>
   <div><div class="kicker">SAR &times; AIS &middot; MARITIME AWARENESS</div><div class="title">DARK VESSEL <b>DETECTION</b></div></div></a>
- <div class="status"><span class="pill"><span class="dot off"></span>AIS FEED <strong>OFFLINE</strong></span>
+ <div class="status"><span class="pill"><span class="dot live"></span>AIS FEED <strong>LIVE</strong></span>
   <span class="pill">UTC <strong id="utc">--:--:--</strong></span>
-  <span class="pill">UPDATED <strong>03 Nov 05:14</strong></span></div>
+  <span class="pill">UPDATED <strong>03 Nov 05:29</strong></span></div>
 </div><nav class="tabs"><a class="" href="../index.html">OVERVIEW</a><a class="" href="../mumbai/index.html">MUMBAI</a><a class="" href="../denmark/index.html">DENMARK</a><a class="" href="../nn/index.html">NEURAL NET</a><a class="on" href="../demo/index.html">SIMULATION</a></nav></div></header>
 <main class="wrap"><div class="coords">SIMULATION // SYNTHETIC SCENES WITH KNOWN GROUND TRUTH</div>
 <h1>Simulation: the whole pipeline with a known answer</h1>

diff --git a/docs/nn/index.html b/docs/nn/index.html
@@ -81,9 +81,9 @@ footer{border-top:1px solid var(--line);padding:18px 0 28px;font:12px/1.6 var(--
 <header class="hud"><div class="wrap"><div class="hudrow">
  <a class="brand" href="../index.html"><div class="scope"><div class="sweep"></div><span class="blip" style="left:32px;top:14px"></span><span class="blip" style="left:15px;top:33px;animation-delay:1.1s"></span></div>
   <div><div class="kicker">SAR &times; AIS &middot; MARITIME AWARENESS</div><div class="title">DARK VESSEL <b>DETECTION</b></div></div></a>
- <div class="status"><span class="pill"><span class="dot off"></span>AIS FEED <strong>OFFLINE</strong></span>
+ <div class="status"><span class="pill"><span class="dot live"></span>AIS FEED <strong>LIVE</strong></span>
   <span class="pill">UTC <strong id="utc">--:--:--</strong></span>
-  <span class="pill">UPDATED <strong>03 Nov 05:14</strong></span></div>
+  <span class="pill">UPDATED <strong>03 Nov 05:29</strong></span></div>
 </div><nav class="tabs"><a class="" href="../index.html">OVERVIEW</a><a class="" href="../mumbai/index.html">MUMBAI</a><a class="" href="../denmark/index.html">DENMARK</a><a class="on" href="../nn/index.html">NEURAL NET</a><a class="" href="../demo/index.html">SIMULATION</a></nav></div></header>
 <main class="wrap"><div class="coords">NEURAL NETWORK // SHIPCNN</div>
 <h1>ShipCNN: our own convolutional network that decides "is this a ship?"</h1>
